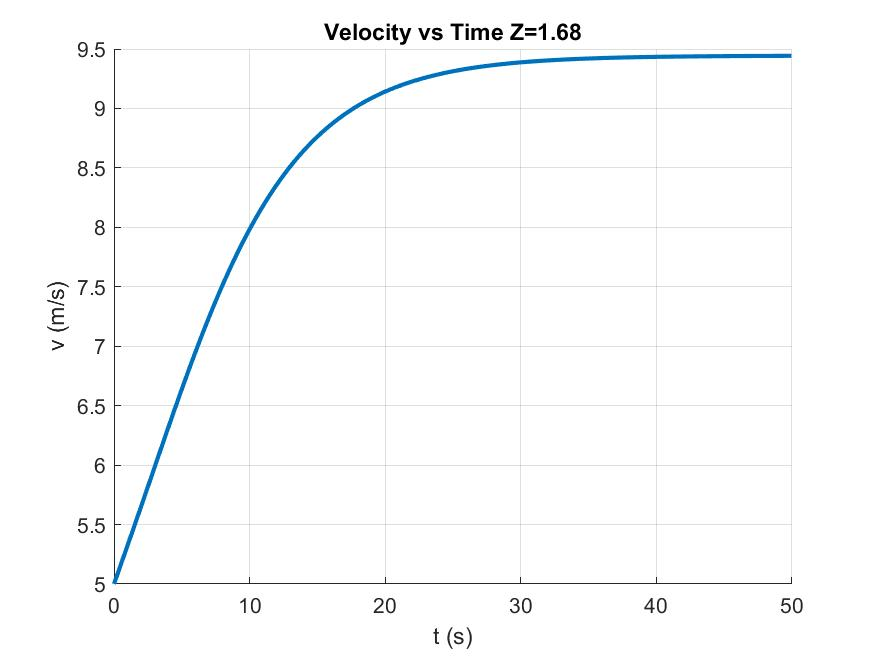
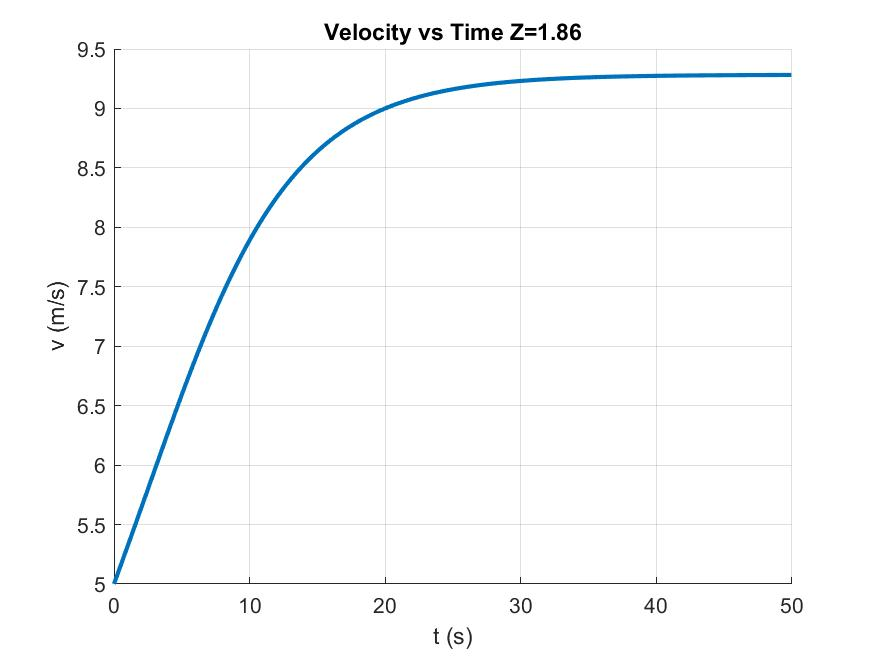
Real Wheel Values

Changed region(s): [[0.3086, 0.0305, 0.9257, 0.3049], [0.1851, 0.3049, 0.3086, 0.6707], [0.1543, 0.6707, 0.1851, 0.7927]]

diff --git a/Vehicle.m b/Vehicle.m
@@ -15,12 +15,10 @@ classdef Vehicle
 			self.air = air;
 			self.fan = fan;
 			L = 35e-2;
-			self.d = 0.15*L;
+			self.d = 47e-3;
 			self.Z = Z;
 			self.F_d = F_d;
-			t_wheel = 10e-3;
-			R_wheel = 0.6e3;
-			m_wheel = self.d^2*pi/4*t_wheel*R_wheel;
+			m_wheel = 10e-3;
 			I_wheel = m_wheel*self.d^2/8;
 			m_body = 350e-3;
 			m = m_body+fan.m+m_wheel*3;
